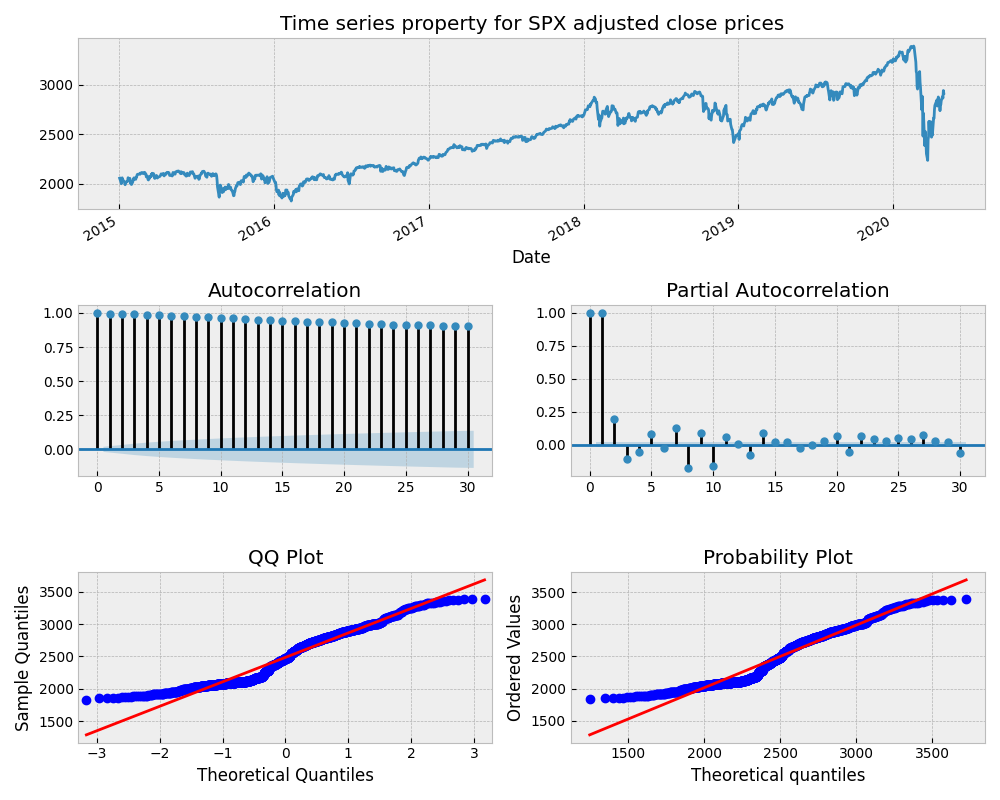
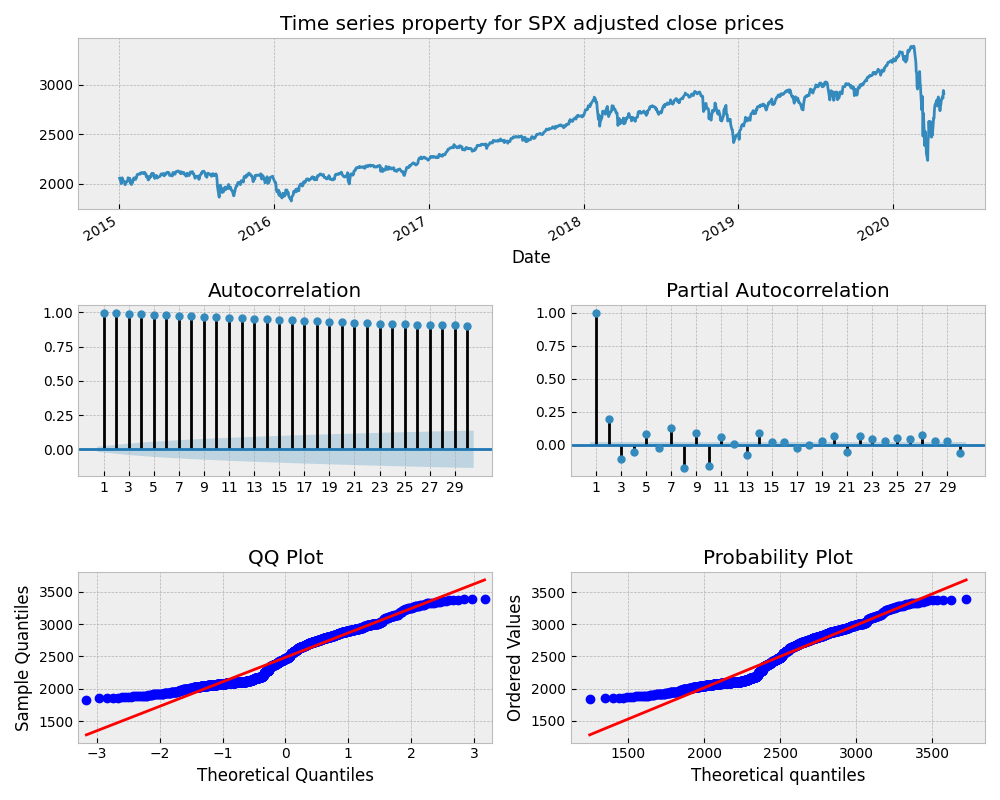
Add ARCH and GARCH models to slice

diff --git a/augmented/project_augmented_refactor.py b/augmented/project_augmented_refactor.py
@@ -20,6 +20,7 @@ Mean Squared Error (MSE) and Mean Absolute Error (MAE).
 
 import os
 import sys
+import arch
 import pandas as pd
 import pandas_datareader.data as web
 import numpy as np
@@ -86,11 +87,15 @@ def plot_time_series(data, lags=None, title=None):
 
         data.plot(ax=ts_ax)
         ts_ax.set_title(title if title else 'Time Series Analysis Plots')
-        smt.graphics.plot_acf(data, lags=lags, ax=acf_ax, alpha=0.5)
-        smt.graphics.plot_pacf(data, lags=lags, ax=pacf_ax, alpha=0.5)
+        smt.graphics.plot_acf(data, lags=lags, ax=acf_ax, alpha=0.5, zero=False)
+        smt.graphics.plot_pacf(data, lags=lags, ax=pacf_ax, alpha=0.5, zero=False)
         sm.qqplot(data, line='s', ax=qq_ax)
         qq_ax.set_title('QQ Plot')
         scs.probplot(data, sparams=(data.mean(), data.std()), plot=pp_ax)
+        plt.sca(acf_ax)
+        plt.xticks(np.arange(1,  lags + 1, 2.0))
+        plt.sca(pacf_ax)
+        plt.xticks(np.arange(1,  lags + 1, 2.0))
         plt.tight_layout()
 
     return fig
@@ -120,8 +125,12 @@ def plot_acf_pacf(data, lags=None):
         layout = (1, 2)
         acf_ax = plt.subplot2grid(layout, (0, 0))
         pacf_ax = plt.subplot2grid(layout, (0, 1))
-        smt.graphics.plot_acf(data, lags=lags, ax=acf_ax, alpha=0.5)
-        smt.graphics.plot_pacf(data, lags=lags, ax=pacf_ax, alpha=0.5)
+        smt.graphics.plot_acf(data, lags=lags, ax=acf_ax, alpha=0.5, zero=False)
+        smt.graphics.plot_pacf(data, lags=lags, ax=pacf_ax, alpha=0.5, zerop=False)
+        plt.sca(acf_ax)
+        plt.xticks(np.arange(1,  lags + 1, 2.0))
+        plt.sca(pacf_ax)
+        plt.xticks(np.arange(1,  lags + 1, 2.0))
         plt.tight_layout()
 
     return fig
@@ -225,8 +234,29 @@ def find_best_arima_model(time_series):
 
     return best_aic, best_order, best_mdl
 
+def fit_arch(time_series, q=1):
+    """Return fit ARCH Model
 
-def fit_garch(time_series, best_order):
+    Parameters
+    ==========
+    time_series : series
+        One-dimensional ndarray with axis labels (including time series).
+    best_order : tuple
+        One-dimensional ndarray with axis labels (including time series).
+
+    Returns
+    =======
+    best_aic : float
+    best_order : float
+    """
+
+    am = arch.univariate.ConstantMean(time_series)
+    am.volatility = arch.univariate.ARCH(q)
+    am.distribution=arch.univariate.StudentsT()
+
+    return am.fit(update_freq=5, disp='off')
+
+def fit_garch(time_series, p=1, o=0, q=1):
     """Return fit GARCH Model
 
     Parameters
@@ -242,11 +272,9 @@ def fit_garch(time_series, best_order):
     best_order : float
     """
 
-    p_ = best_order[0]
-    o_ = best_order[1]
-    q_ = best_order[2]
-
-    am = arch_model(time_series, p=p_, o=o_, q=q_, dist='StudentsT')
+    am = arch.univariate.ConstantMean(time_series)
+    am.volatility = arch.univariate.GARCH(p, o, q)
+    am.distribution=arch.univariate.StudentsT()
 
     return am.fit(update_freq=5, disp='off')
 
@@ -413,24 +441,76 @@ def main():
     # The Ljung-Box test on the square of the residuals of the ARIMA model show exactly the expected
     # behaviour of having correlation. We need to fit a model with ARCH characteristics.
 
-    # # GARCH Model fitting
-    # spx_garch = fit_garch(log_returns_percent[SPX].loc[start:end_slice], res_tup_spx[1])
-    # plot_time_series(spx_garch.resid, lags=lags_).savefig('images/2_spx_garch_residuals_analysis')
-    # plot_acf_pacf(spx_garch.resid ** 2, lags=lags_).savefig('images/2_spx_garch_squared_residuals_analysis')
-    # plot_ljung_box_test(spx_garch.resid, lags=lags_).savefig('images/2_spx_garch_square_resid_ljung_analysis')
-    # print(spx_garch.summary())
-    
-    # dax_garch = fit_garch(log_returns_percent[DAX].loc[start:end_slice], res_tup_dax[1])
-    # plot_time_series(dax_garch.resid, lags=lags_).savefig('images/3_dax_garch_residuals_analysis')
-    # plot_acf_pacf(dax_garch.resid ** 2, lags=lags_).savefig('images/3_dax_garch_squared_residuals_analysis')
-    # plot_ljung_box_test(dax_garch.resid, lags=lags_).savefig('images/3_dax_garch_square_resid_ljung_analysis')
-    # print(dax_garch.summary())
+    # ARCH Model fitting -> We are fitting one ARCH, to check whether we need to do a GARCH, then
+    # checking the standardized squared residuals of the model we fitted, we see the existence of
+    # autocorrelation, which leads to the need of a GARCH model.
+    spx_arch_1 = fit_arch(spx_estimation_time_series)
+    print(spx_arch_1.summary())
+    spx_arch_1_std_resid = spx_arch_1.resid / spx_arch_1.conditional_volatility
+    plot_time_series(spx_arch_1_std_resid, lags=lags_).savefig('images/8_spx_arch_1_std_residuals_analysis')
+    plot_time_series(spx_arch_1_std_resid ** 2, lags=lags_).savefig('images/9_spx_arch_1_std_resid_square_analysis')
+    plot_ljung_box_test(spx_arch_1_std_resid ** 2, lags=lags_).savefig('images/10_spx_arch_1_std_resid_square_ljung_analysis')
 
-    # sse_garch = fit_garch(log_returns_percent[SSE].loc[start:end_slice], res_tup_sse[1])
-    # plot_time_series(sse_garch.resid, lags=lags_).savefig('images/4_sse_garch_residuals_analysis')
-    # plot_acf_pacf(sse_garch.resid ** 2, lags=lags_).savefig('images/4_sse_garch_squared_residuals_analysis')
-    # plot_ljung_box_test(sse_garch.resid, lags=lags_).savefig('images/4_sse_garch_square_resid_ljung_analysis')
-    # print(sse_garch.summary())
+    dax_arch_1 = fit_arch(dax_estimation_time_series)
+    print(dax_arch_1.summary())
+    dax_arch_1_std_resid = dax_arch_1.resid / dax_arch_1.conditional_volatility
+    plot_time_series(dax_arch_1_std_resid, lags=lags_).savefig('images/8_dax_arch_1_std_residuals_analysis')
+    plot_time_series(dax_arch_1_std_resid ** 2, lags=lags_).savefig('images/9_dax_arch_1_std_resid_square_analysis')
+    plot_ljung_box_test(dax_arch_1_std_resid ** 2, lags=lags_).savefig('images/10_dax_arch_1_std_resid_square_ljung_analysis')
+
+    sse_arch_1 = fit_arch(sse_estimation_time_series)
+    print(sse_arch_1.summary())
+    sse_arch_1_std_resid = sse_arch_1.resid / sse_arch_1.conditional_volatility
+    plot_time_series(sse_arch_1_std_resid, lags=lags_).savefig('images/8_sse_arch_1_std_residuals_analysis')
+    plot_time_series(sse_arch_1_std_resid ** 2, lags=lags_).savefig('images/9_sse_arch_1_std_resid_square_analysis')
+    plot_ljung_box_test(sse_arch_1_std_resid ** 2, lags=lags_).savefig('images/10_sse_arch_1_std_resid_square_ljung_analysis')
+
+    # GARCH Model fitting -> We are fitting two GARCHs, the first one is a GARCH(1,1). We selected
+    # this model because there are evidence in the literature that a GARCH(1,1) outperforms higher
+    # orders of GARCH models when checking the AIC criteria.
+    spx_garch_1_1 = fit_garch(spx_estimation_time_series)
+    print(spx_garch_1_1.summary())
+    spx_garch_1_1_std_resid = spx_garch_1_1.resid / spx_garch_1_1.conditional_volatility
+    plot_time_series(spx_garch_1_1_std_resid, lags=lags_).savefig('images/11_spx_garch_1_1_std_residuals_analysis')
+    plot_time_series(spx_garch_1_1_std_resid ** 2, lags=lags_).savefig('images/12_spx_garch_1_1_std_resid_square_analysis')
+    plot_ljung_box_test(spx_garch_1_1_std_resid ** 2, lags=lags_).savefig('images/13_spx_garch_1_1_std_resid_square_ljung_analysis')
+
+    dax_garch_1_1 = fit_garch(dax_estimation_time_series)
+    print(dax_garch_1_1.summary())
+    dax_garch_1_1_std_resid = dax_garch_1_1.resid / dax_garch_1_1.conditional_volatility
+    plot_time_series(dax_garch_1_1_std_resid, lags=lags_).savefig('images/11_dax_garch_1_1_std_residuals_analysis')
+    plot_time_series(dax_garch_1_1_std_resid ** 2, lags=lags_).savefig('images/12_dax_garch_1_1_std_resid_square_analysis')
+    plot_ljung_box_test(dax_garch_1_1_std_resid ** 2, lags=lags_).savefig('images/13_dax_garch_1_1_std_resid_square_ljung_analysis')
+
+    sse_garch_1_1 = fit_garch(sse_estimation_time_series)
+    print(sse_garch_1_1.summary())
+    sse_garch_1_1_std_resid = sse_garch_1_1.resid / sse_garch_1_1.conditional_volatility
+    plot_time_series(sse_garch_1_1_std_resid, lags=lags_).savefig('images/11_sse_garch_1_1_std_residuals_analysis')
+    plot_time_series(sse_garch_1_1_std_resid ** 2, lags=lags_).savefig('images/12_sse_garch_1_1_std_resid_square_analysis')
+    plot_ljung_box_test(sse_garch_1_1_std_resid ** 2, lags=lags_).savefig('images/13_sse_garch_1_1_std_resid_square_ljung_analysis')
+
+    # The second model is a GARCH that uses the best ARIMA estimation for p, o and q to check if
+    # this model outperforms the previous one.
+    spx_garch_best = fit_garch(spx_estimation_time_series, spx_arima_best_order[0], spx_arima_best_order[1], spx_arima_best_order[2])
+    print(spx_garch_best.summary())
+    spx_garch_best_std_resid = spx_garch_best.resid / spx_garch_best.conditional_volatility
+    plot_time_series(spx_garch_best_std_resid, lags=lags_).savefig('images/14_spx_garch_best_std_resid_square_analysis')
+    plot_time_series(spx_garch_best_std_resid ** 2, lags=lags_).savefig('images/15_spx_garch_best_std_resid_square_analysis')
+    plot_ljung_box_test(spx_garch_best_std_resid ** 2, lags=lags_).savefig('images/16_spx_garch_best_std_resid_square_ljung_analysis')
+
+    dax_garch_best = fit_garch(dax_estimation_time_series, dax_arima_best_order[0], dax_arima_best_order[1], dax_arima_best_order[2])
+    print(dax_garch_best.summary())
+    dax_garch_best_std_resid = dax_garch_best.resid / dax_garch_best.conditional_volatility
+    plot_time_series(dax_garch_best_std_resid, lags=lags_).savefig('images/14_dax_garch_best_std_resid_square_analysis')
+    plot_time_series(dax_garch_best_std_resid ** 2, lags=lags_).savefig('images/15_dax_garch_best_std_resid_square_analysis')
+    plot_ljung_box_test(dax_garch_best_std_resid ** 2, lags=lags_).savefig('images/16_dax_garch_best_std_resid_square_ljung_analysis')
+
+    sse_garch_best = fit_garch(sse_estimation_time_series, sse_arima_best_order[0], sse_arima_best_order[1], sse_arima_best_order[2])
+    print(sse_garch_best.summary())
+    sse_garch_best_std_resid = sse_garch_best.resid / sse_garch_best.conditional_volatility
+    plot_time_series(sse_garch_best_std_resid, lags=lags_).savefig('images/14_sse_garch_best_std_resid_square_analysis')
+    plot_time_series(sse_garch_best_std_resid ** 2, lags=lags_).savefig('images/15_sse_garch_best_std_resid_square_analysis')
+    plot_ljung_box_test(sse_garch_best_std_resid ** 2, lags=lags_).savefig('images/16_sse_garch_best_std_resid_square_ljung_analysis')
 
 
 if __name__ == '__main__':
